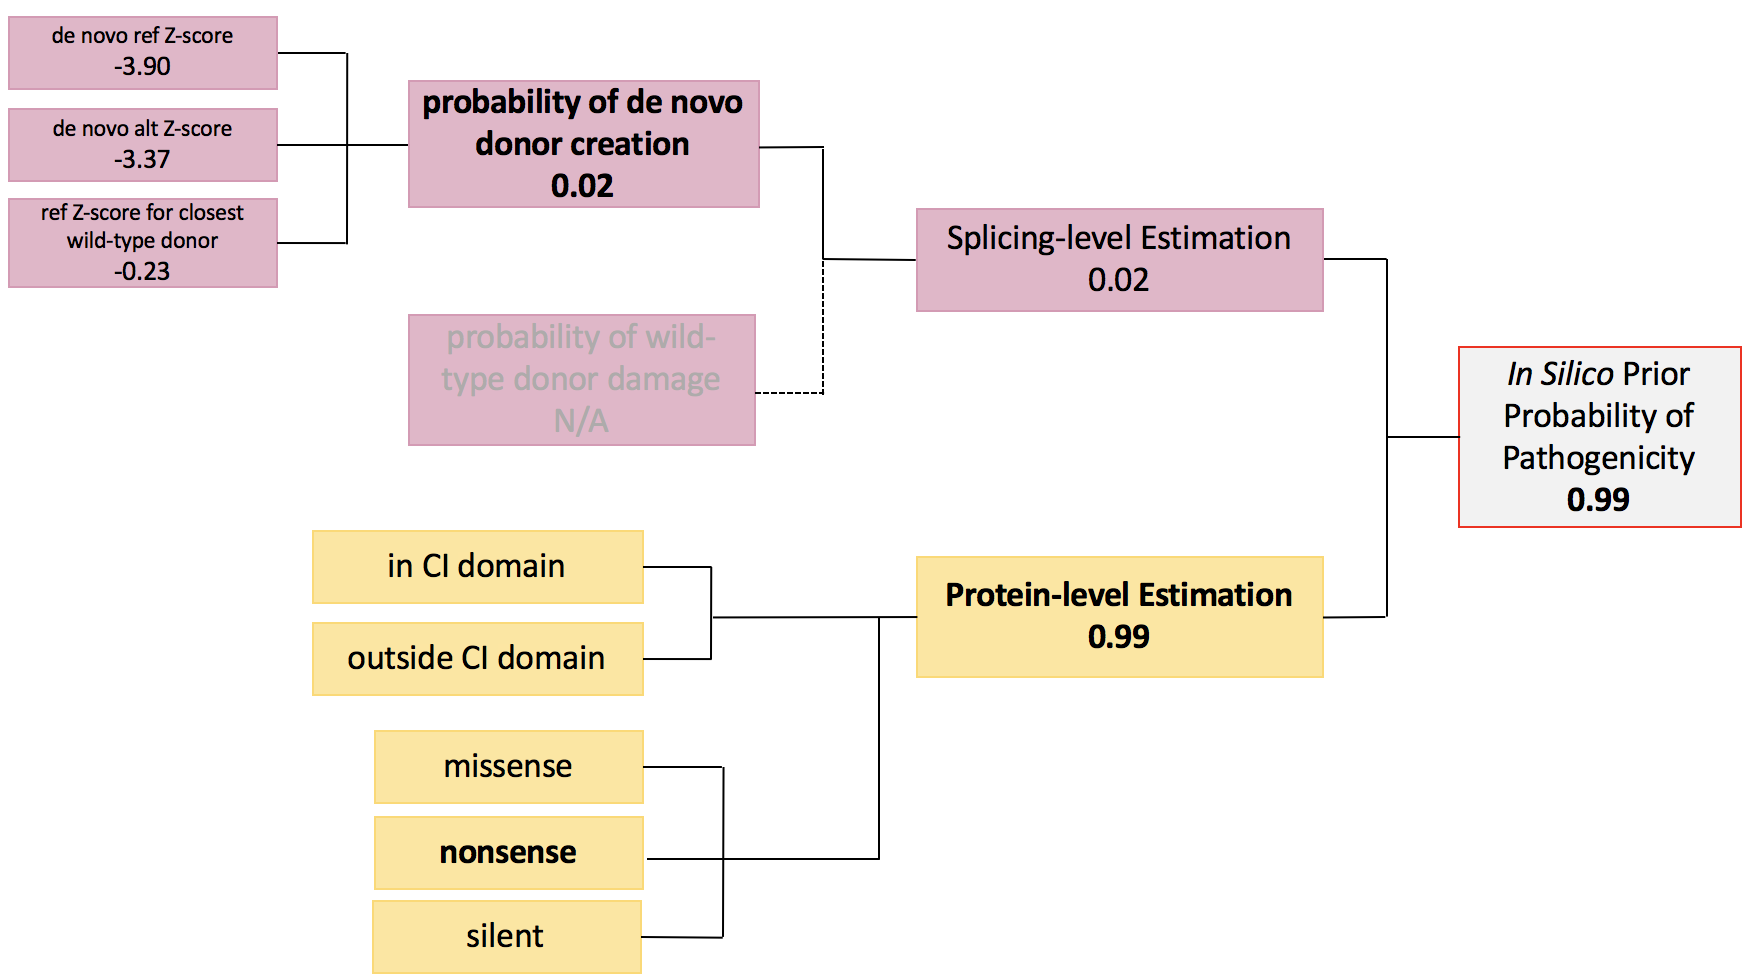
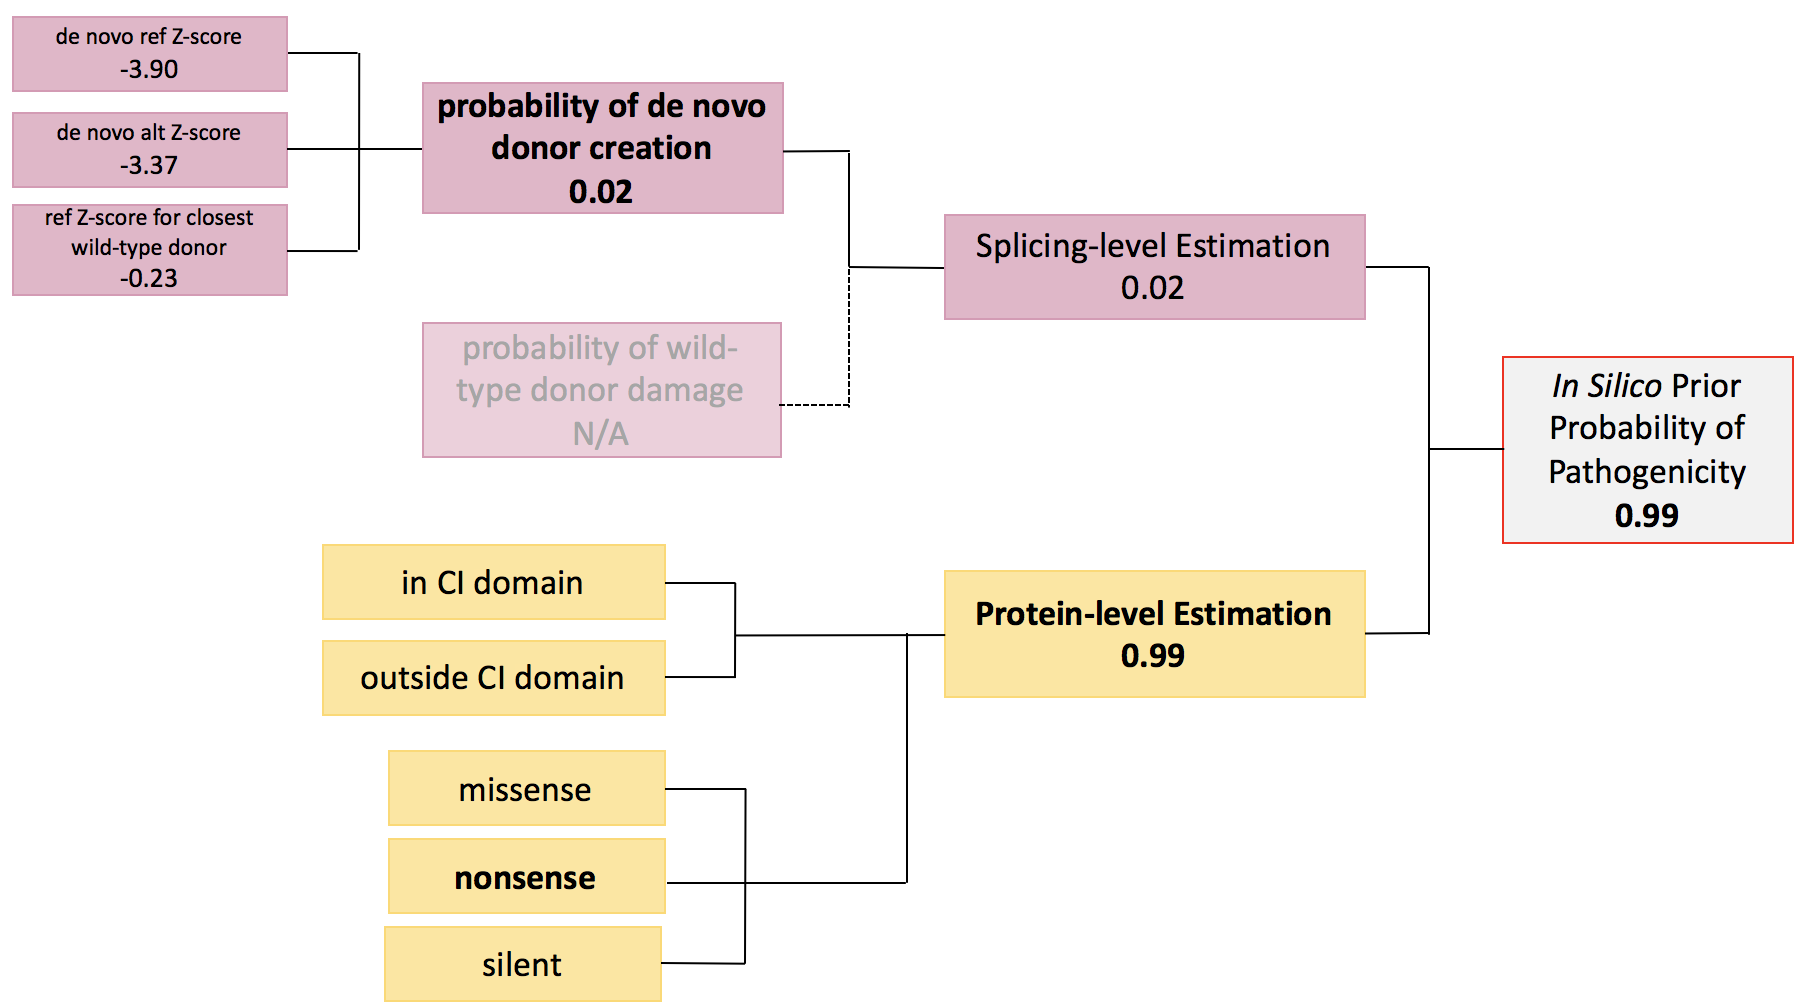
img10, 12, 14 more legible, small text fix

diff --git a/insilico-scoring.md b/insilico-scoring.md
@@ -101,7 +101,7 @@ The Splicing-level Estimation is due to the de novo donor probability. The de no
 
 ### Intronic Variant Located in Wild-Type Splice Site's Donor Region
 
-### Example: [c.441+2t>G](http://brcaexchange.org/variant/104996)
+Example: [c.441+2t>G](http://brcaexchange.org/variant/104996)
 
 Because the variant is located in an intron and a wild-type donor splice site region, the following values are used in predicting the *In Silico* Prior Probability of Pathogenicity:
 
